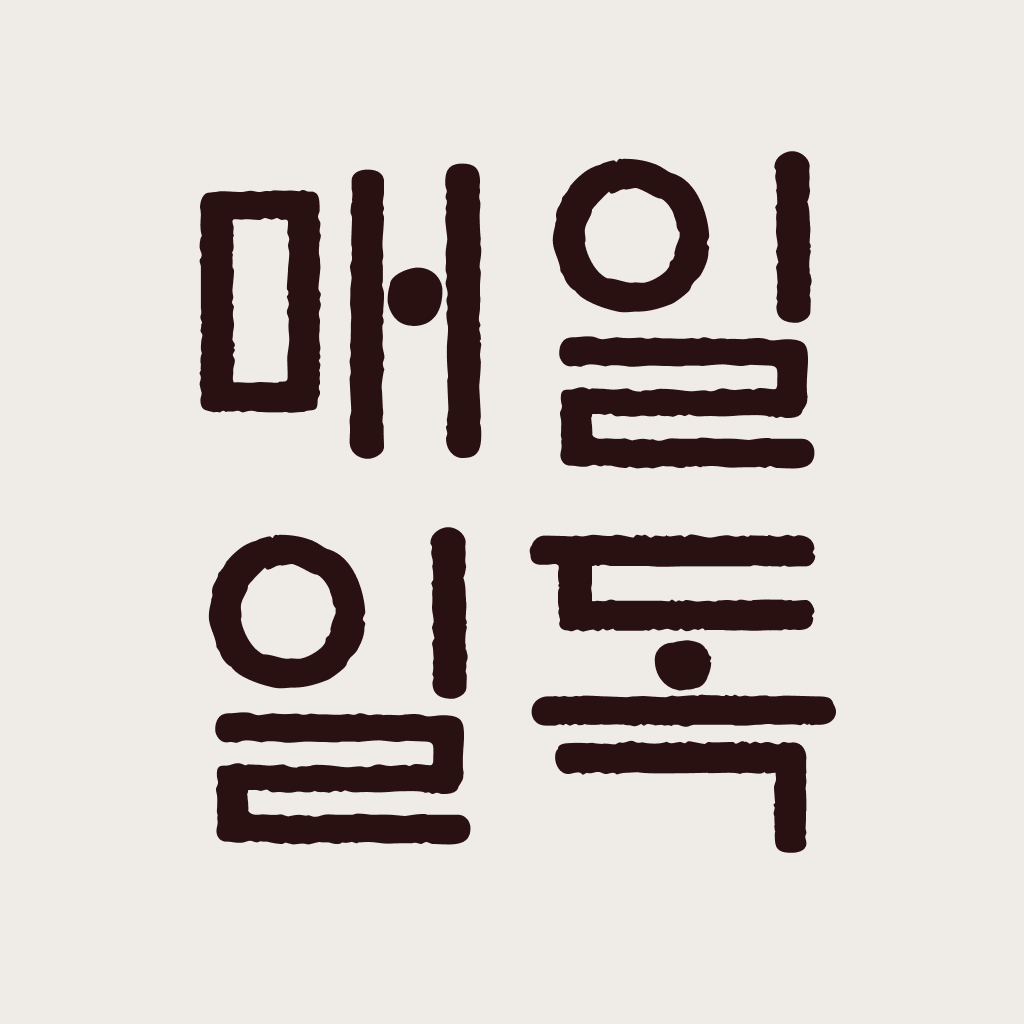
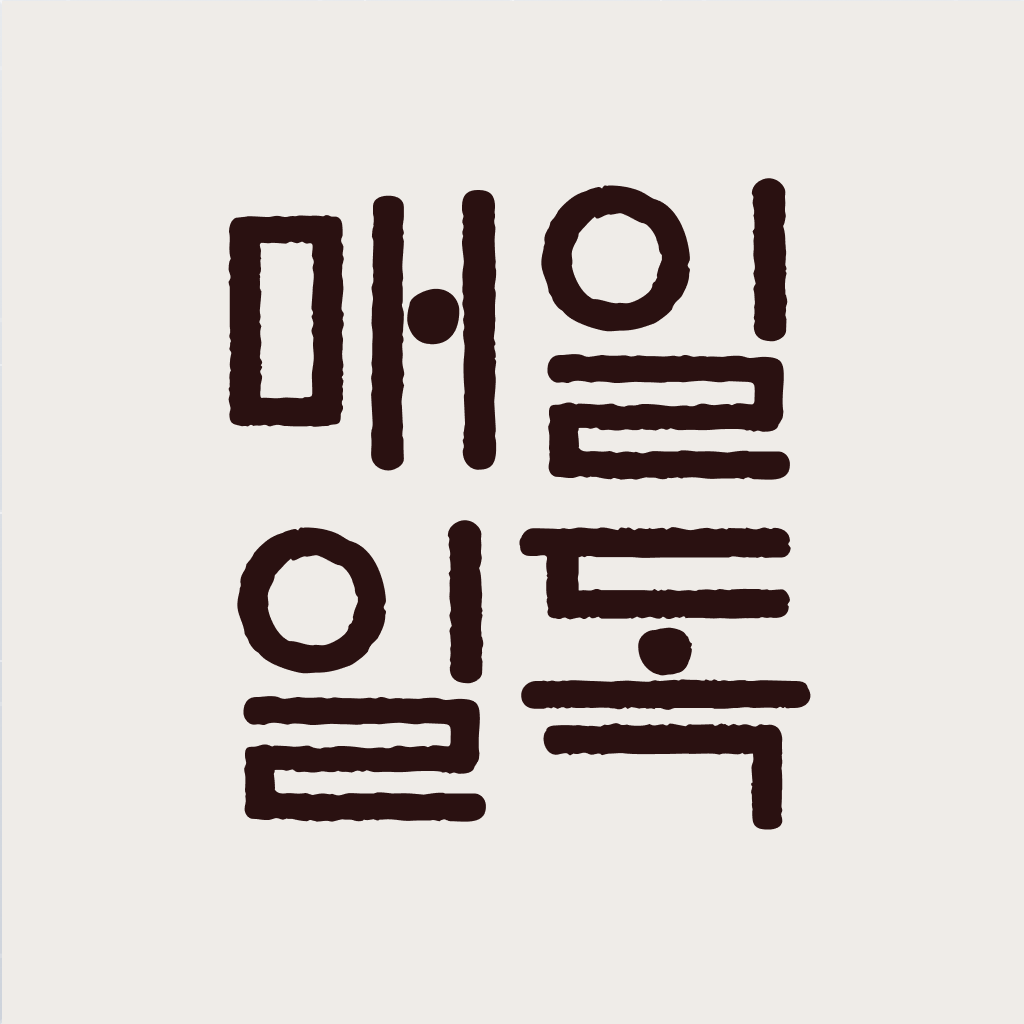
feat: 모바일 앱 SafeArea 및 UI 개선
- react-native-safe-area-context 적용으로 동적 inset 처리
- 브랜드 컬러 업데이트 (#4A90A4 → #4B9F7E)
- 폰트 letterSpacing 조정
- 앱 아이콘 업데이트
- BottomNavigation 네이티브 앱 SafeArea 대응
- versionCode 7로 업데이트

diff --git a/mobile/App.tsx b/mobile/App.tsx
@@ -5,7 +5,6 @@ import {
   ActivityIndicator,
   BackHandler,
   Platform,
-  SafeAreaView,
   StatusBar,
   Text,
   TouchableOpacity,
@@ -16,6 +15,7 @@ import {
   Alert,
 } from 'react-native';
 import { WebView, WebViewNavigation } from 'react-native-webview';
+import { SafeAreaProvider, SafeAreaView, useSafeAreaInsets } from 'react-native-safe-area-context';
 import * as Linking from 'expo-linking';
 import * as Notifications from 'expo-notifications';
 import * as Device from 'expo-device';
@@ -60,7 +60,8 @@ interface AuthState {
 
 const STORAGE_KEY = '@maeil1dok_auth';
 
-export default function App() {
+function AppContent() {
+  const insets = useSafeAreaInsets();
   const webViewRef = useRef<WebView>(null);
   const [isLoading, setIsLoading] = useState(true);
   const [canGoBack, setCanGoBack] = useState(false);
@@ -518,7 +519,7 @@ export default function App() {
       <SafeAreaView style={styles.container}>
         <StatusBar barStyle="dark-content" backgroundColor="#faf8f6" />
         <View style={styles.loadingOverlay}>
-          <ActivityIndicator size="large" color="#4A90A4" />
+          <ActivityIndicator size="large" color="#4B9F7E" />
         </View>
       </SafeAreaView>
     );
@@ -679,11 +680,14 @@ export default function App() {
           (function() {
             window.isReactNativeWebView = true;
             window.isAndroidApp = ${Platform.OS === 'android'};
+            window.nativeInsets = { top: ${insets.top}, bottom: ${insets.bottom}, left: ${insets.left}, right: ${insets.right} };
             window.requestNativePushToken = function() {
               window.ReactNativeWebView.postMessage(JSON.stringify({ type: 'requestPushToken' }));
             };
+            document.documentElement.style.setProperty('--native-top-inset', '${insets.top}px');
+            document.documentElement.style.setProperty('--native-bottom-inset', '${insets.bottom}px');
+            document.body.classList.add('native-app');
             if (${Platform.OS === 'android'}) {
-              document.documentElement.style.setProperty('--native-bottom-inset', '24px');
               document.body.classList.add('android-native-app');
             }
           })();
@@ -691,13 +695,13 @@ export default function App() {
         `}
         renderLoading={() => (
           <View style={styles.loadingContainer}>
-            <ActivityIndicator size="large" color="#4A90A4" />
+            <ActivityIndicator size="large" color="#4B9F7E" />
           </View>
         )}
       />
       {isLoading && (
         <View style={styles.loadingOverlay}>
-          <ActivityIndicator size="large" color="#4A90A4" />
+          <ActivityIndicator size="large" color="#4B9F7E" />
         </View>
       )}
     </SafeAreaView>
@@ -708,7 +712,6 @@ const styles = StyleSheet.create({
   container: {
     flex: 1,
     backgroundColor: '#faf8f6',
-    paddingTop: Platform.OS === 'android' ? StatusBar.currentHeight : 0,
   },
   webView: {
     flex: 1,
@@ -795,6 +798,7 @@ const styles = StyleSheet.create({
     fontFamily: 'Pretendard-Medium',
     fontSize: 14,
     color: '#000000',
+    letterSpacing: -0.8,
   },
   googleButton: {
     flexDirection: 'row',
@@ -812,6 +816,7 @@ const styles = StyleSheet.create({
     fontFamily: 'Pretendard-Medium',
     fontSize: 14,
     color: '#1f2937',
+    letterSpacing: -0.8,
   },
   divider: {
     flexDirection: 'row',
@@ -828,6 +833,7 @@ const styles = StyleSheet.create({
     paddingHorizontal: 8,
     fontSize: 14,
     color: '#64748b',
+    letterSpacing: -0.7,
   },
   inputGroup: {
     borderRadius: 6,
@@ -847,6 +853,7 @@ const styles = StyleSheet.create({
     color: '#1e293b',
     borderWidth: 1,
     borderColor: '#cbd5e1',
+    letterSpacing: -0.8,
   },
   inputTop: {
     borderTopLeftRadius: 6,
@@ -858,7 +865,7 @@ const styles = StyleSheet.create({
     borderBottomRightRadius: 6,
   },
   submitButton: {
-    backgroundColor: '#4A90A4',
+    backgroundColor: '#4B9F7E',
     paddingVertical: 12,
     paddingHorizontal: 24,
     borderRadius: 6,
@@ -876,6 +883,7 @@ const styles = StyleSheet.create({
     fontFamily: 'Pretendard-Medium',
     color: '#fff',
     fontSize: 14,
+    letterSpacing: -0.8,
   },
   authLinks: {
     alignItems: 'center',
@@ -885,13 +893,15 @@ const styles = StyleSheet.create({
     fontFamily: 'Pretendard-Regular',
     color: '#64748b',
     fontSize: 14,
+    letterSpacing: -0.7,
   },
   registerLink: {
     fontFamily: 'Pretendard-Medium',
-    color: '#4A90A4',
+    color: '#4B9F7E',
     fontSize: 14,
     paddingVertical: 8,
     paddingHorizontal: 16,
+    letterSpacing: -0.7,
   },
   errorContainer: {
     flex: 1,
@@ -922,7 +932,7 @@ const styles = StyleSheet.create({
     marginBottom: 24,
   },
   retryButton: {
-    backgroundColor: '#4A90A4',
+    backgroundColor: '#4B9F7E',
     paddingHorizontal: 32,
     paddingVertical: 12,
     borderRadius: 8,
@@ -933,3 +943,11 @@ const styles = StyleSheet.create({
     fontSize: 16,
   },
 });
+
+export default function App() {
+  return (
+    <SafeAreaProvider>
+      <AppContent />
+    </SafeAreaProvider>
+  );
+}

diff --git a/frontend/app/components/BottomNavigation.vue b/frontend/app/components/BottomNavigation.vue
@@ -97,8 +97,8 @@ const isActive = (path) => {
   display: block;
 }
 
-:global(.android-native-app) .bottom-nav-container {
-  padding-bottom: 48px;
+:global(.native-app) .bottom-nav-container {
+  padding-bottom: var(--native-bottom-inset, 0px);
 }
 
 /* Desktop: Hide bottom navigation on very large screens */

diff --git a/mobile/react-native.config.js b/mobile/react-native.config.js
@@ -1,0 +1,12 @@
+module.exports = {
+  // Node 실행 경로 명시적 지정 (Gradle 빌드 문제 해결)
+  reactNativePath: './node_modules/react-native',
+  project: {
+    android: {
+      sourceDir: './android',
+    },
+  },
+  // CLI 설정
+  commands: [],
+  platforms: {},
+};
